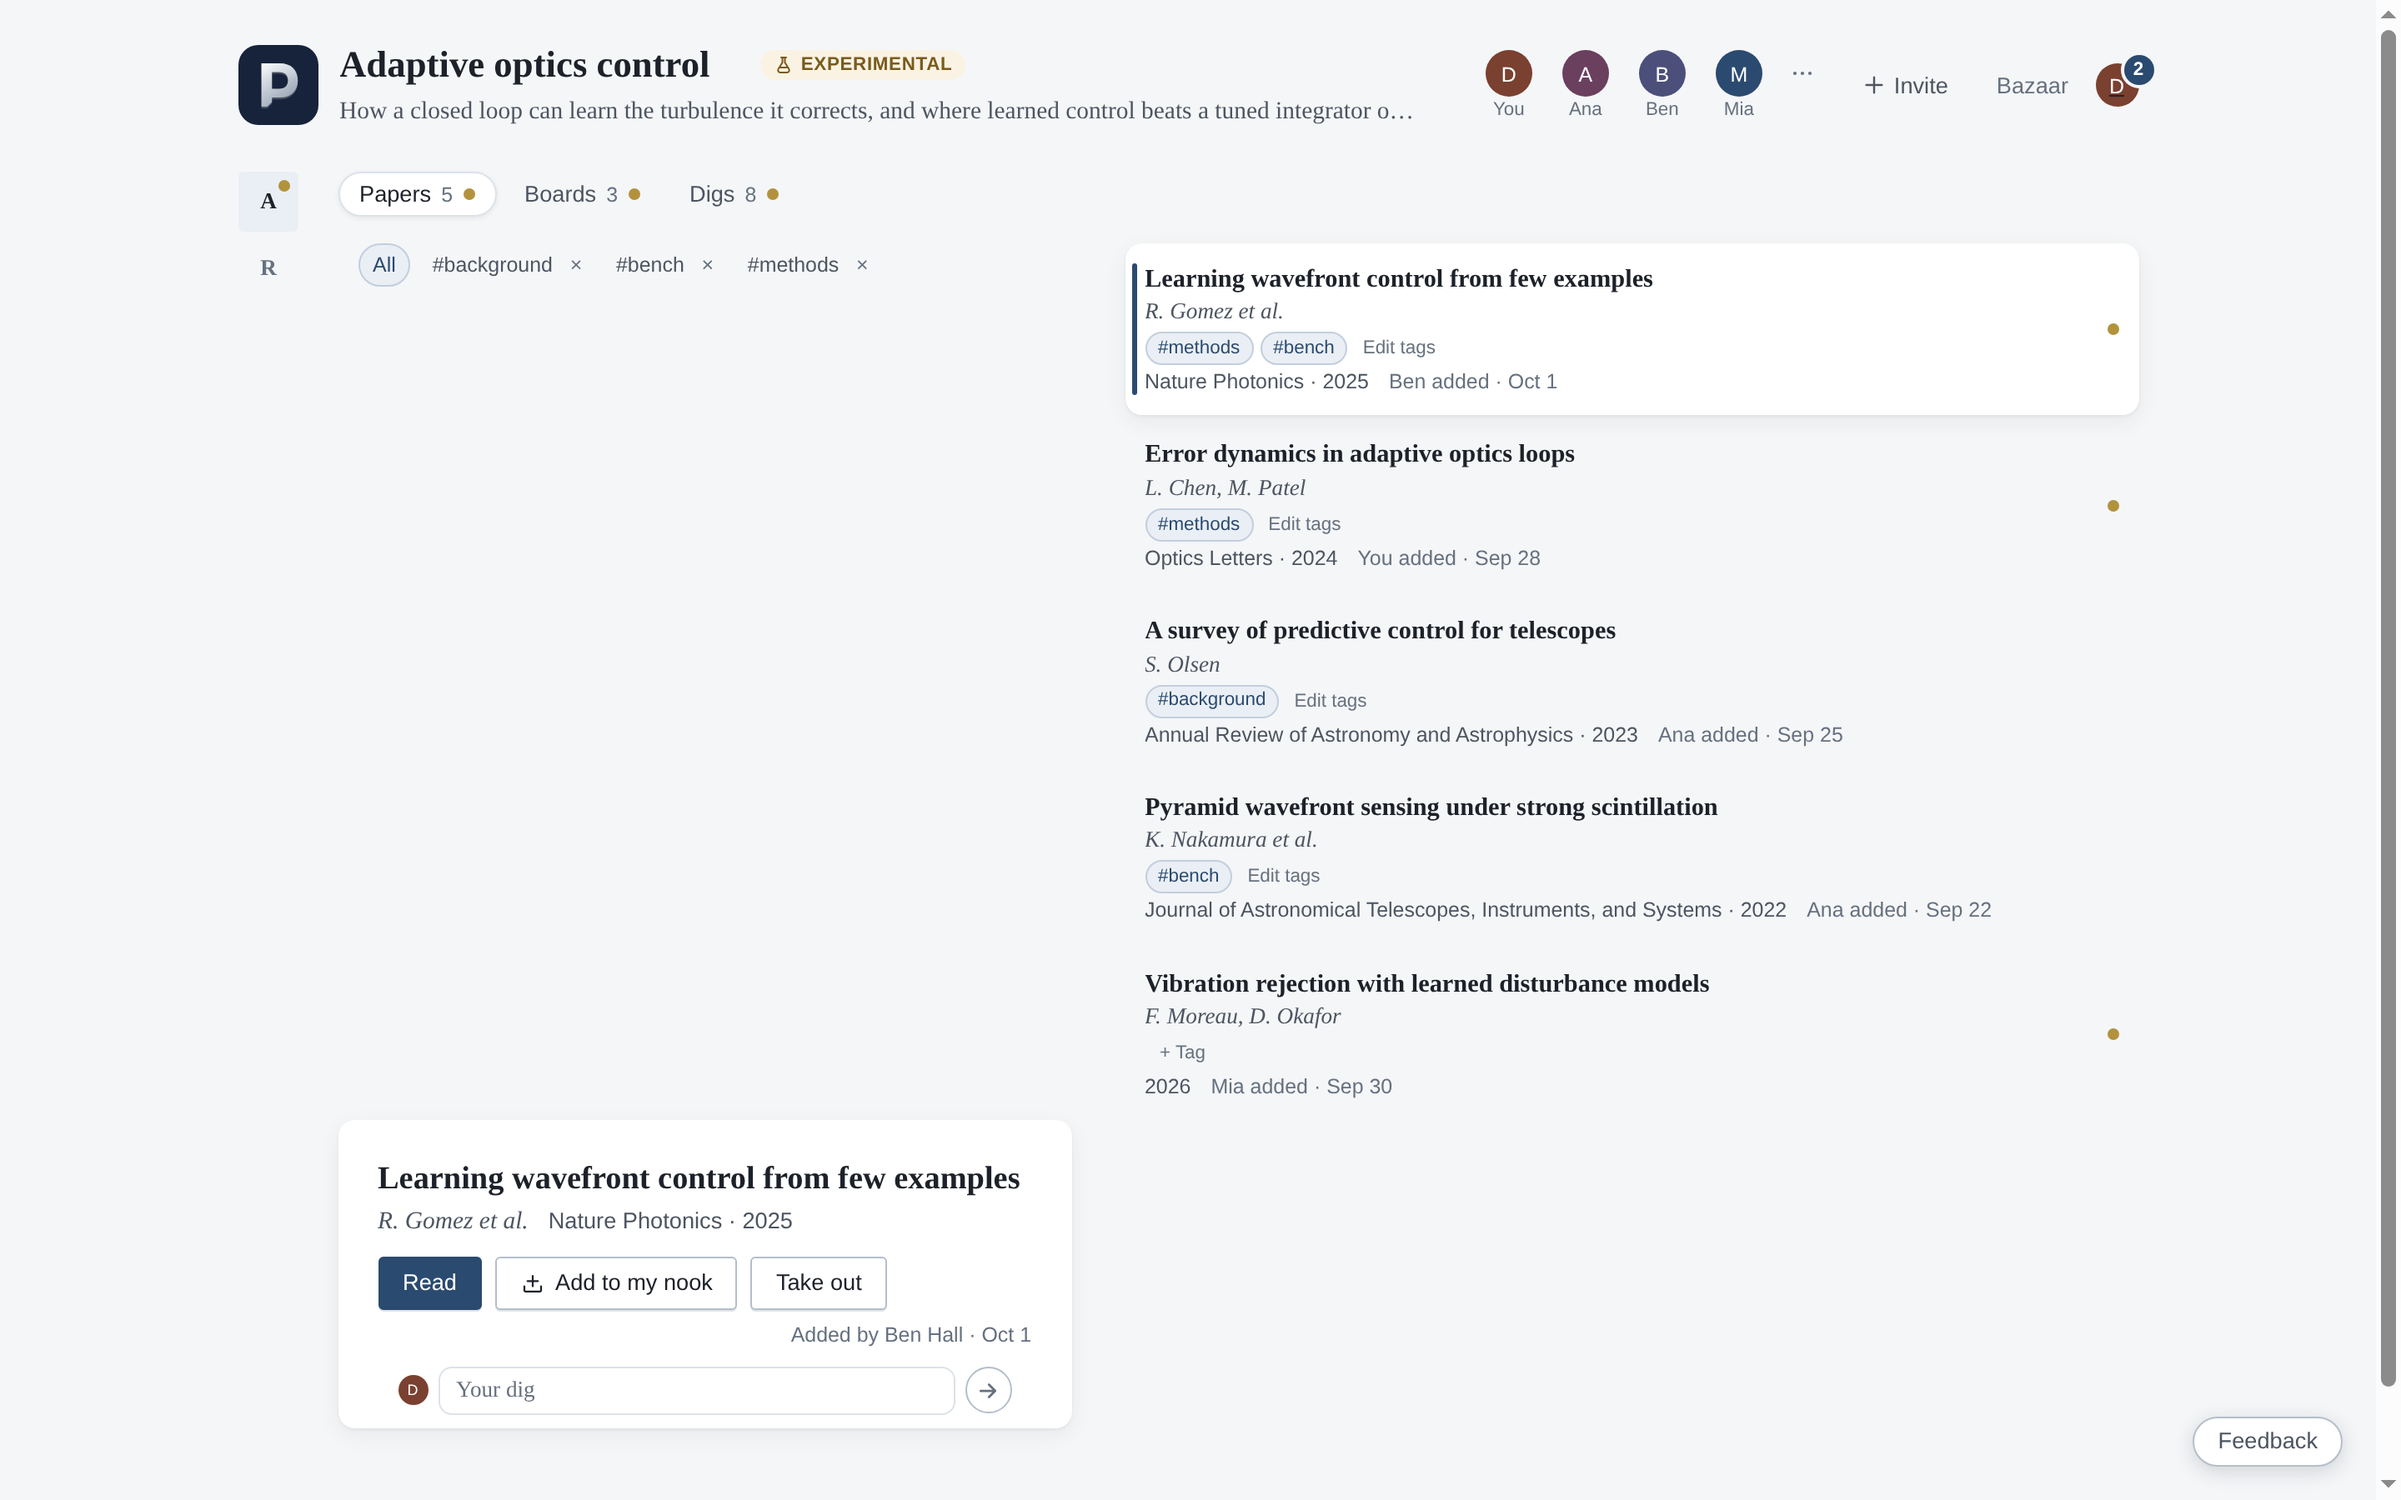
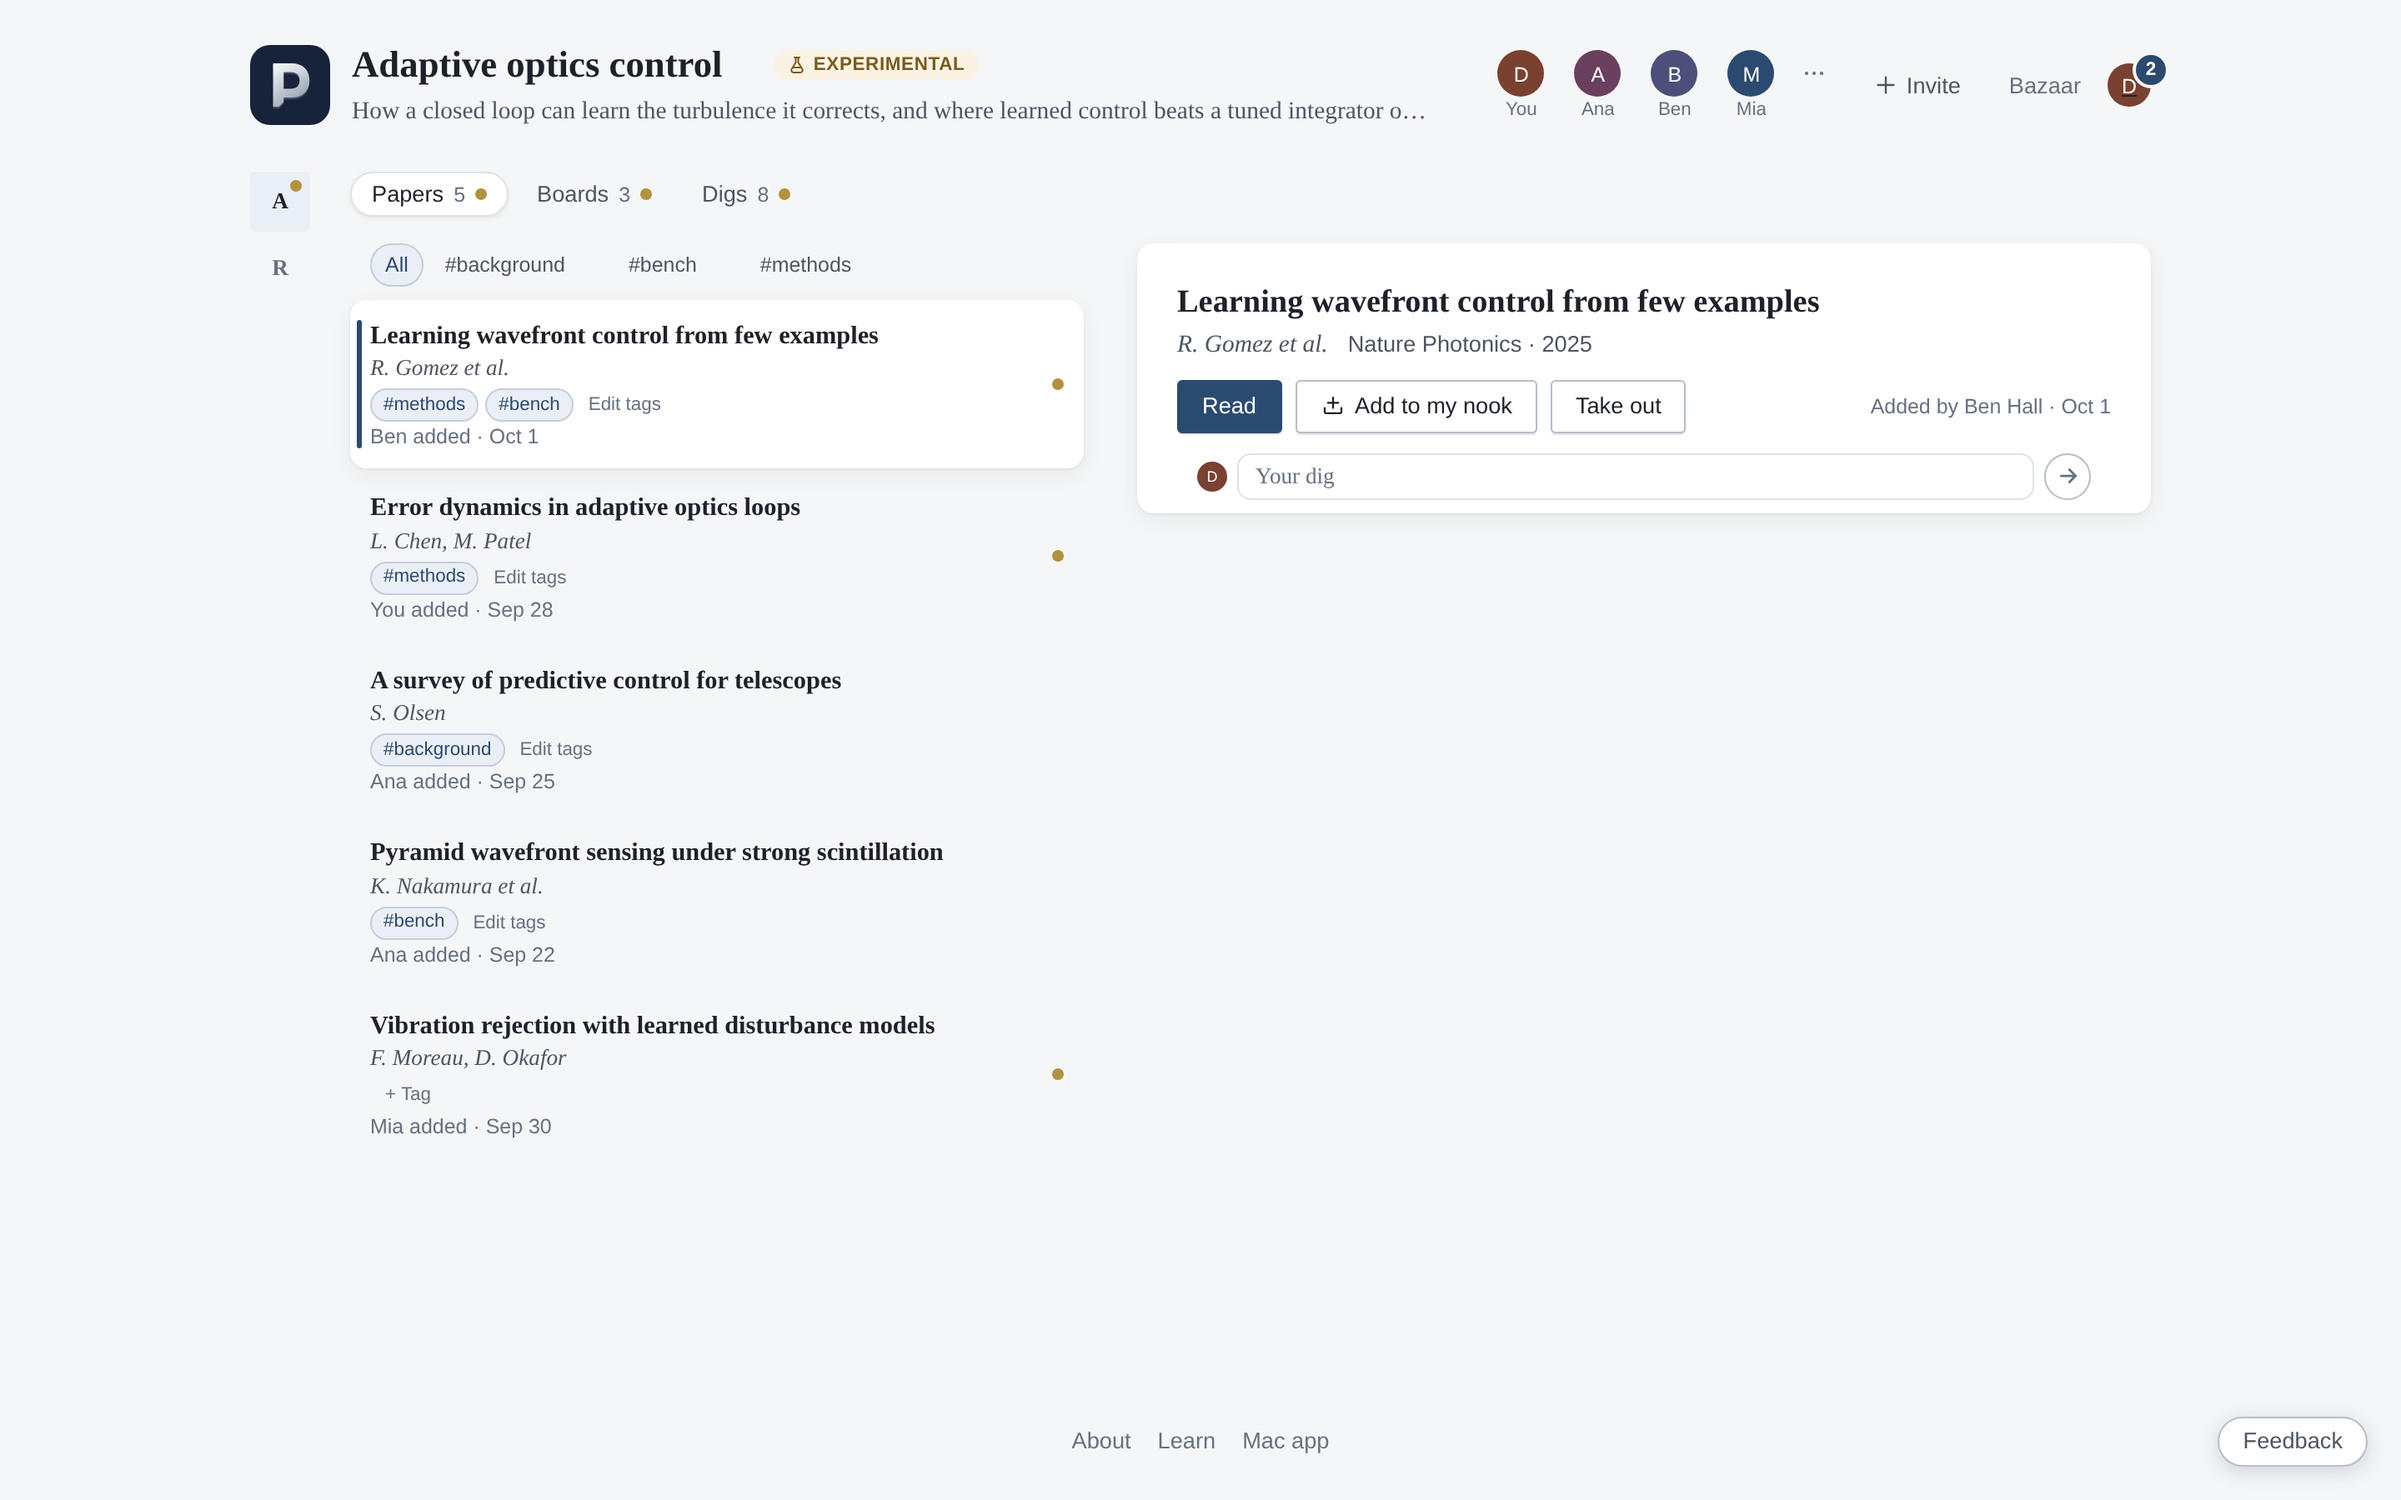
Polish project tag layout

diff --git a/shared/applicationStyles.js b/shared/applicationStyles.js
@@ -5236,7 +5236,8 @@ button.project-quiet.project-danger:hover:not(:disabled) { background: var(--red
 .project-tag-filters button:hover, .project-tag-filters button:focus-visible { border-color: var(--line); background: var(--card); color: var(--accent); }
 .project-tag-filters button.is-on { border-color: var(--accent-line); background: var(--accent-soft); color: var(--accent); }
 .project-tag-filter { display: inline-flex; align-items: center; border-radius: var(--radius-pill); }
-.project-tag-filter > .project-tag-delete { width: 22px; min-height: 22px; margin-left: -6px; padding: 0; color: var(--ink-faint); }
+.project-tag-filter > .project-tag-delete { width: 22px; min-height: 22px; margin-left: -6px; padding: 0; color: var(--ink-faint); opacity: 0; transition: opacity var(--motion-fast) var(--ease-out); }
+.project-tag-filter:hover > .project-tag-delete, .project-tag-filter:focus-within > .project-tag-delete { opacity: 1; }
 .project-tag-filter > .project-tag-delete:hover, .project-tag-filter > .project-tag-delete:focus-visible { border-color: transparent; background: var(--red-soft); color: var(--red); }
 .project-tags-none { margin: var(--space-5) var(--space-3); color: var(--ink-faint); font: var(--fs-sm) var(--font-ui); }
 .project-tag-filter-error { margin: 0 var(--space-3) var(--space-2); color: var(--red); font: var(--fs-xs) var(--font-ui); }
@@ -5247,13 +5248,14 @@ button.project-quiet.project-danger:hover:not(:disabled) { background: var(--red
 .project-tag-edit:hover:not(:disabled), .project-tag-edit:focus-visible, .project-tag-done:hover:not(:disabled), .project-tag-done:focus-visible { border: 0; background: transparent; color: var(--accent); }
 .project-paper-tags.is-editing { display: block; }
 .project-paper-tags.is-editing > .project-paper-tag-list { display: none; }
-.project-tag-editor { display: grid; gap: 5px; max-width: 28rem; padding: var(--space-2); border: 1px solid var(--accent-line); border-radius: var(--radius); background: var(--card); box-shadow: var(--shadow-sm); }
-.project-tag-editor-head { display: flex; align-items: center; justify-content: space-between; color: var(--ink-faint); font: 600 var(--fs-2xs) var(--font-ui); letter-spacing: .04em; text-transform: uppercase; }
+.project-tag-editor { display: grid; gap: var(--space-2); max-width: 28rem; padding: var(--space-3); border: 1px solid var(--line); border-radius: var(--radius-lg); background: var(--card); box-shadow: var(--shadow-sm); }
+.project-tag-editor-head { display: flex; align-items: center; justify-content: space-between; color: var(--ink-soft); font: 500 var(--fs-xs) var(--font-ui); }
 .project-tag-assigned { display: flex; flex-wrap: wrap; gap: 4px; }
 button.project-paper-tag.is-removable { box-shadow: none; }
 button.project-paper-tag.is-removable:hover:not(:disabled), button.project-paper-tag.is-removable:focus-visible { border-color: var(--red); background: var(--red-soft); color: var(--red); }
 .project-tag-picker { position: relative; }
-.project-tag-input { width: 100%; min-height: 30px; box-sizing: border-box; padding: 4px 8px; border-color: var(--line); font: var(--fs-xs) var(--font-ui); }
+.project-tag-input { width: 100%; min-height: 34px; box-sizing: border-box; padding: 5px 9px; border-color: var(--line-strong); border-radius: var(--radius); font: var(--fs-xs) var(--font-ui); }
+.project-tag-input:focus { border-color: var(--accent); box-shadow: 0 0 0 2px var(--accent-soft); outline: 0; }
 .project-tag-options { display: grid; max-height: 10rem; margin-top: 3px; overflow-y: auto; border: 1px solid var(--line); border-radius: var(--radius); background: var(--card); }
 .project-tag-options button { display: flex; align-items: center; justify-content: space-between; min-height: 30px; padding: 4px 8px; border: 0; border-radius: 0; background: transparent; box-shadow: none; color: var(--ink); font: var(--fs-xs) var(--font-ui); text-align: left; }
 .project-tag-options button + button { border-top: 1px solid var(--line); }
@@ -5261,6 +5263,9 @@ button.project-paper-tag.is-removable:hover:not(:disabled), button.project-paper
 .project-tag-options button span:last-child { color: var(--ink-faint); font-size: var(--fs-2xs); }
 .project-tag-options .project-tag-create { color: var(--accent); }
 .project-tag-error { color: var(--red); font: var(--fs-2xs) var(--font-ui); }
+@media (hover: none) {
+  .project-tag-filter > .project-tag-delete { opacity: 1; }
+}
 @container (max-width: 1099px) {
   .project-row { grid-template-columns: minmax(0, 1fr) auto; grid-template-areas: 'text end' 'facts end'; row-gap: 2px; column-gap: var(--space-3); }
   /* The facts share one line and one left edge whatever a row lacks. */
@@ -5348,6 +5353,7 @@ ${talkStyles}
 /* The Papers tab: the list, and the picked paper's brief beside it on a
    wide window, laid out as the Digs tab lays out a dig. */
 .project-papers-view.is-wide { display: grid; grid-template-columns: minmax(340px, 440px) minmax(420px, 1fr); column-gap: var(--space-6); align-items: start; }
+.project-papers-list { min-width: 0; }
 /* The list reads its own width, so its rows fold as they do on a phone. */
 .project-papers-view.is-wide .project-papers { container-type: inline-size; }
 .project-row-open { display: inline; width: auto; min-height: 0; padding: 0; border: 0; background: none; box-shadow: none; color: inherit; font: inherit; text-align: left; }

diff --git a/frontend/src/components/ProjectPage.jsx b/frontend/src/components/ProjectPage.jsx
@@ -536,7 +536,7 @@ function ProjectPaperTags({ project, paper, onChanged }) {
       {editing && (
         <div className="project-tag-editor">
           <div className="project-tag-editor-head">
-            <span>Project tags</span>
+            <span>Tags for this paper</span>
             <button type="button" className="project-tag-done" onClick={() => { setEditing(false); setDraft(''); }}>Done</button>
           </div>
           {(paper.tags ?? []).length > 0 && (
@@ -622,38 +622,39 @@ function ProjectPapers({ project, currentUser, hasNews, picked, onPick, onChange
   };
   return (
     <section className={`project-section project-papers-view${wide ? ' is-wide' : ''}`} aria-label="Papers">
-      {(project.tags ?? []).length > 0 && (
-        <div className="project-tag-filters" aria-label="Filter papers by project tag">
-          <button type="button" className={!tag ? 'is-on' : ''} aria-pressed={!tag} onClick={() => setTag(null)}>All</button>
-          {(project.tags ?? []).map((item) => (
-            <span className="project-tag-filter" key={item.uuid}>
-              <button
-                type="button" className={tag === item.uuid ? 'is-on' : ''} aria-pressed={tag === item.uuid}
-                onClick={() => setTag(tag === item.uuid ? null : item.uuid)}
-              >#{item.name}</button>
-              {project.is_keeper && (
+      <div className="project-papers-list">
+        {(project.tags ?? []).length > 0 && (
+          <div className="project-tag-filters" aria-label="Filter papers by project tag">
+            <button type="button" className={!tag ? 'is-on' : ''} aria-pressed={!tag} onClick={() => setTag(null)}>All</button>
+            {(project.tags ?? []).map((item) => (
+              <span className="project-tag-filter" key={item.uuid}>
                 <button
-                  type="button" className="project-tag-delete" aria-label={`Delete project tag ${item.name}`}
-                  onClick={async () => {
-                    if (!await confirmAction(`Delete “${item.name}” from this project and every paper?`, { confirmLabel: 'Delete tag', destructive: true })) return;
-                    setTagError(null);
-                    try {
-                      await deleteProjectTag(project.uuid, item.uuid);
-                      if (tag === item.uuid) setTag(null);
-                      onChanged();
-                    } catch (err) {
-                      setTagError(err.message);
-                    }
-                  }}
-                >×</button>
-              )}
-            </span>
-          ))}
-        </div>
-      )}
-      {tagError && <p className="project-tag-filter-error" role="alert">{tagError}</p>}
-      {papers.length === 0 && <p className="project-tags-none">No papers have this tag.</p>}
-      <ul className="project-papers project-rows" onKeyDown={wide ? move : undefined}>
+                  type="button" className={tag === item.uuid ? 'is-on' : ''} aria-pressed={tag === item.uuid}
+                  onClick={() => setTag(tag === item.uuid ? null : item.uuid)}
+                >#{item.name}</button>
+                {project.is_keeper && (
+                  <button
+                    type="button" className="project-tag-delete" aria-label={`Delete project tag ${item.name}`}
+                    onClick={async () => {
+                      if (!await confirmAction(`Delete “${item.name}” from this project and every paper?`, { confirmLabel: 'Delete tag', destructive: true })) return;
+                      setTagError(null);
+                      try {
+                        await deleteProjectTag(project.uuid, item.uuid);
+                        if (tag === item.uuid) setTag(null);
+                        onChanged();
+                      } catch (err) {
+                        setTagError(err.message);
+                      }
+                    }}
+                  >×</button>
+                )}
+              </span>
+            ))}
+          </div>
+        )}
+        {tagError && <p className="project-tag-filter-error" role="alert">{tagError}</p>}
+        {papers.length === 0 && <p className="project-tags-none">No papers have this tag.</p>}
+        <ul className="project-papers project-rows" onKeyDown={wide ? move : undefined}>
         {papers.map((paper) => {
           const where = [paper.journal, paper.year].filter(Boolean).join(' · ');
           const selected = chosen?.sha256 === paper.sha256;
@@ -691,7 +692,8 @@ function ProjectPapers({ project, currentUser, hasNews, picked, onPick, onChange
             </React.Fragment>
           );
         })}
-      </ul>
+        </ul>
+      </div>
       {wide && chosen && <div className="project-papers-panel">{brief(chosen)}</div>}
     </section>
   );
